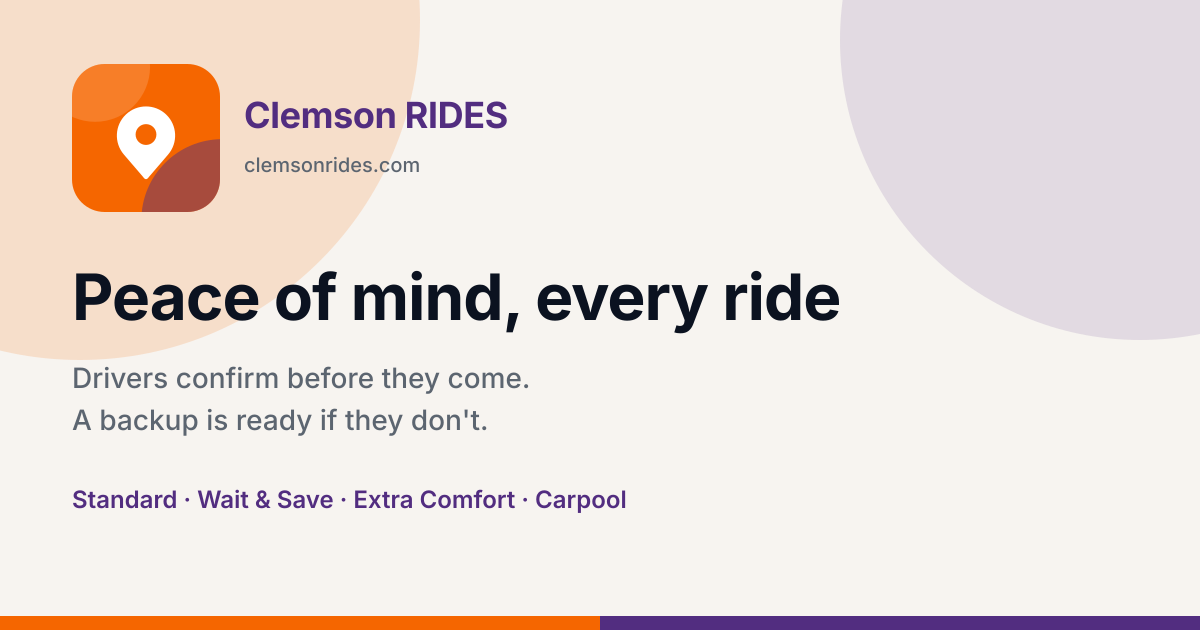
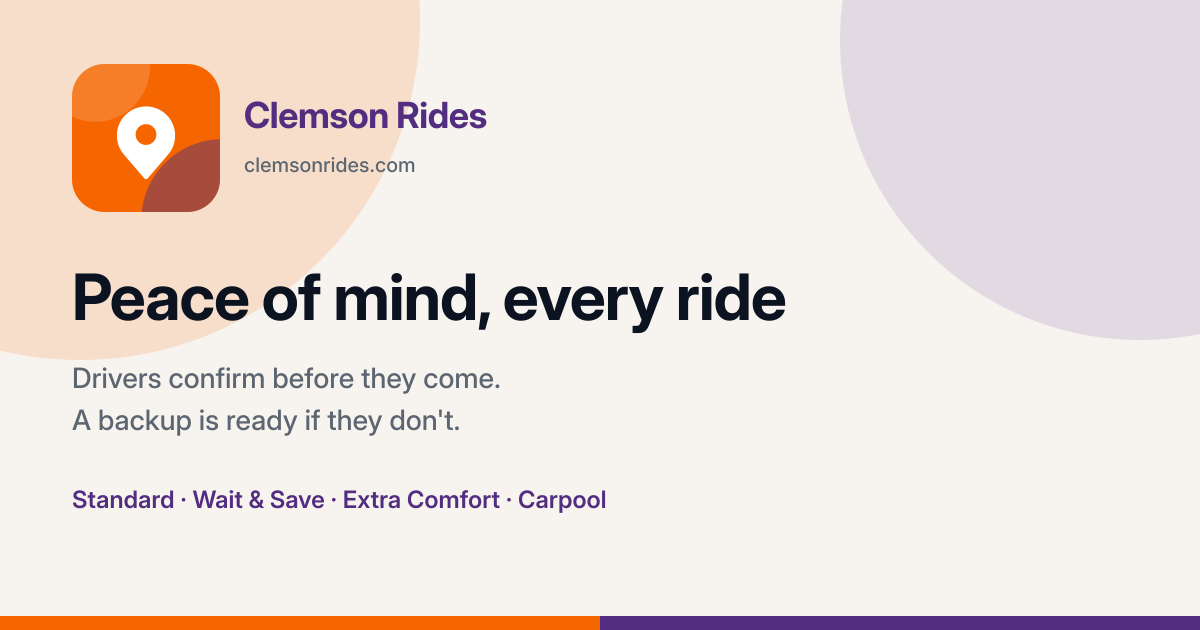
Marketing kit: use the Clemson Rides name, iOS and web only, App Store links; re-render PNGs

diff --git a/marketing-kit/store/iphone-1290x2796.html b/marketing-kit/store/iphone-1290x2796.html
@@ -2,7 +2,7 @@
 <html lang="en">
 <head>
   <meta charset="utf-8" />
-  <title>Clemson RIDES — iPhone screenshot template 1290×2796</title>
+  <title>Clemson Rides — iPhone screenshot template 1290×2796</title>
   <style>
     html, body { margin: 0; width: 1290px; height: 2796px; overflow: hidden; background: #F7F4F0; }
     body {
@@ -65,7 +65,7 @@
   <div class="stage">
     <div class="brand">
       <img src="../logo/mark.svg" alt="" />
-      <p>Clemson RIDES</p>
+      <p>Clemson Rides</p>
     </div>
     <h1>Four ways to ride</h1>
     <p class="lede">The quote on the booking screen is the price before you confirm.</p>

diff --git a/marketing-kit/social/og-image.html b/marketing-kit/social/og-image.html
@@ -2,7 +2,7 @@
 <html lang="en">
 <head>
   <meta charset="utf-8" />
-  <title>Clemson RIDES — Open Graph 1200×630</title>
+  <title>Clemson Rides — Open Graph 1200×630</title>
   <style>
     html, body { margin: 0; width: 1200px; height: 630px; overflow: hidden; background: #F7F4F0; }
     body {
@@ -32,7 +32,7 @@
   <div class="brand">
     <img src="../logo/mark.svg" alt="" />
     <div>
-      <p class="name">Clemson RIDES</p>
+      <p class="name">Clemson Rides</p>
       <p class="url">clemsonrides.com</p>
     </div>
   </div>

diff --git a/marketing-kit/social/linkedin-banner.html b/marketing-kit/social/linkedin-banner.html
@@ -2,7 +2,7 @@
 <html lang="en">
 <head>
   <meta charset="utf-8" />
-  <title>Clemson RIDES — LinkedIn banner 1584×396</title>
+  <title>Clemson Rides — LinkedIn banner 1584×396</title>
   <style>
     html, body { margin: 0; width: 1584px; height: 396px; overflow: hidden; background: #F7F4F0; }
     body {

diff --git a/marketing-kit/store/mac-2880x1800.html b/marketing-kit/store/mac-2880x1800.html
@@ -2,7 +2,7 @@
 <html lang="en">
 <head>
   <meta charset="utf-8" />
-  <title>Clemson RIDES — Mac screenshot template 2880×1800</title>
+  <title>Clemson Rides — Mac screenshot template 2880×1800</title>
   <style>
     html, body { margin: 0; width: 2880px; height: 1800px; overflow: hidden; }
     body {

diff --git a/marketing-kit/social/x-header.html b/marketing-kit/social/x-header.html
@@ -2,7 +2,7 @@
 <html lang="en">
 <head>
   <meta charset="utf-8" />
-  <title>Clemson RIDES — X header 1500×500</title>
+  <title>Clemson Rides — X header 1500×500</title>
   <style>
     html, body { margin: 0; width: 1500px; height: 500px; overflow: hidden; background: #F7F4F0; }
     body {

diff --git a/marketing-kit/PRESS_BLURB.md b/marketing-kit/PRESS_BLURB.md
@@ -2,32 +2,32 @@
 
 Facts from the repo only. No founder quote, no funding figure, no rider count, no rating. Contact rides@clemsonrides.com. The public site is https://clemsonrides.com.
 
-App Store and Play Store listings are not live. Do not describe the apps as available there. iPhone rider and driver builds have public TestFlight betas (`shared/productLinks.js`).
+The iPhone Rider and Driver apps are on the App Store (https://apps.apple.com/us/app/clemson-rides/id6815430021 and https://apps.apple.com/us/app/clemson-rides-driver/id6815445517; `shared/productLinks.js`). Clemson Rides is iOS and web only.
 
 ## Short
 
-Clemson RIDES is a campus and airport ride marketplace for Clemson students. Riders book at clemsonrides.com. The ride types are Standard, Wait & Save, Extra Comfort, and Carpool. Scheduled airport trips use a $75 flat fare to Greenville-Spartanburg (GSP) and a $175 flat fare to Charlotte Douglas (CLT). A confirmed @clemson.edu or @g.clemson.edu email gets 10% off Standard. The App Store and Play Store listings are not live.
+Clemson Rides is a campus and airport ride marketplace for Clemson students. Riders book at clemsonrides.com. The ride types are Standard, Wait & Save, Extra Comfort, and Carpool. Scheduled airport trips use a $75 flat fare to Greenville-Spartanburg (GSP) and a $175 flat fare to Charlotte Douglas (CLT). A confirmed @clemson.edu or @g.clemson.edu email gets 10% off Standard. The App Store and Play Store listings are not live.
 
 ## Standard
 
-Clemson RIDES is a campus and airport ride marketplace for Clemson students, with a website at clemsonrides.com and separate rider and driver apps. Riders choose Standard, Wait & Save, Extra Comfort, or Carpool. The quote on the booking screen is the price before you confirm. Carpool is 50% of the Standard fare per seat when 3 or 4 riders split the trip. Scheduled airport rides go to Greenville-Spartanburg (GSP) at a $75 flat fare or Charlotte Douglas (CLT) at a $175 flat fare. Scheduling does not charge the card. Stripe places a pre-authorization hold for the estimated fare, and the full fare is charged when the trip ends.
+Clemson Rides is a campus and airport ride marketplace for Clemson students, with a website at clemsonrides.com and separate rider and driver apps. Riders choose Standard, Wait & Save, Extra Comfort, or Carpool. The quote on the booking screen is the price before you confirm. Carpool is 50% of the Standard fare per seat when 3 or 4 riders split the trip. Scheduled airport rides go to Greenville-Spartanburg (GSP) at a $75 flat fare or Charlotte Douglas (CLT) at a $175 flat fare. Scheduling does not charge the card. Stripe places a pre-authorization hold for the estimated fare, and the full fare is charged when the trip ends.
 
 A confirmed @clemson.edu or @g.clemson.edu email gets 10% off Standard. Other ride types are not included in that student discount. Tiger Pass is $9.99 a month and takes 10% off Standard, Wait & Save, Extra Comfort, and Carpool. Drivers keep 80% of the fare. A boost on a scheduled ride is all the driver’s. New drivers are not auto-approved. An application review is not a result from a screening company.
 
-The App Store and Play Store listings are not live. iPhone rider and driver apps have public TestFlight betas. Book on the web at https://clemsonrides.com/#/home. Press contact: rides@clemsonrides.com.
+The Rider and Driver iPhone apps are on the App Store. Book on the web at https://clemsonrides.com/#/home. Press contact: rides@clemsonrides.com.
 
 ## Boilerplate facts
 
 | Fact | Source |
 | --- | --- |
-| Product name Clemson RIDES | `package.json`, `index.html` |
+| Product name Clemson Rides | `package.json`, `index.html` |
 | Live site https://clemsonrides.com | `shared/productLinks.js` |
 | Ride types Standard, Wait & Save, Extra Comfort, Carpool | `shared/rideOptions.js` |
 | GSP $75 flat, CLT $175 flat | `src/store.js`, `server/productKnowledge.js` |
 | Student 10% off Standard for a confirmed @clemson.edu or @g.clemson.edu email | `src/lib/fareRates.js`, `shared/copy/rideTypes.js` |
 | Carpool 50% of Standard per seat when 3 or 4 riders split | `shared/copy/rideTypes.js` |
 | Driver keeps 80%; platform fee 20% | `PLATFORM_FEE_BPS` in `src/lib/fareRates.js` |
-| Store listings not live | `shared/productLinks.js`, `docs/store-metadata.md` |
+| Rider and Driver on the App Store; iOS and web only | `shared/productLinks.js` |
 | Support rides@clemsonrides.com | `shared/productLinks.js` |
 
 Do not add the Clemson paw or other university trademarks. Any paw or trademark usage needs licensing review. See `STYLE_GUIDE.md`.

diff --git a/marketing-kit/STYLE_GUIDE.md b/marketing-kit/STYLE_GUIDE.md
@@ -55,7 +55,7 @@ From `packages/rides-native/shared/theme.js`: card radius 20, sheet radius 28, p
 ## Logo
 
 - `logo/mark.svg` is the square mark. The pin path is the rider glyph from `public/brand/rider-icon.svg`. The tile is `#F56600` with a `#522D80` pool in the lower corner.
-- `logo/lockup.svg` is the mark plus the wordmark “Clemson RIDES” in `#522D80`, which is the marketing name color in `src/styles/liquidGlass.css`.
+- `logo/lockup.svg` is the mark plus the wordmark “Clemson Rides” in `#522D80`, which is the marketing name color in `src/styles/liquidGlass.css`.
 - Do not redraw the pin as a paw, a tiger, or a stripe pattern.
 - Do not stretch the mark. Scale it evenly.
 - The driver app icon (`public/brand/driver-icon.svg`) is a separate steering-wheel mark. It is not the wordmark.
@@ -68,7 +68,7 @@ The only ride types in this kit are Standard, Wait & Save, Extra Comfort, and Ca
 
 Do not use the Clemson paw. Do not use other Clemson University trademarks: the athletic tiger, official university logos, university wordmarks, or university seal.
 
-The product name in the repo is “Clemson RIDES”. Using that product name is not a license to use university marks.
+The product name in the repo is “Clemson Rides”. Using that product name is not a license to use university marks.
 
 “Tiger Pass” and “Tiger Heat” are feature names in the product code (`shared/tigerPass.js`, `packages/rides-native/tigerHeat.js`). Those names are not permission to draw a tiger or to use university athletic art.
 
@@ -80,7 +80,7 @@ Do not name any ride product outside Standard, Wait & Save, Extra Comfort, and C
 
 Do not add ratings, download counts, rider counts, revenue, testimonials, or quotes from people. None of those are in this kit because the repo does not publish them as marketing claims.
 
-Do not draw an App Store or Google Play badge. `shared/productLinks.js` sets the public store URLs to null. `docs/store-metadata.md` says the listings are not submitted.
+Use only Apple's official App Store badge, linked to the listings in `shared/productLinks.js`. Clemson Rides is iOS and web only, so do not add any other store badge.
 
 ## Voice
 

diff --git a/marketing-kit/SOCIAL_COPY.md b/marketing-kit/SOCIAL_COPY.md
@@ -2,11 +2,11 @@
 
 Lines below are product facts. Do not add counts, ratings, testimonials, or quotes. Ride types stay Standard, Wait & Save, Extra Comfort, and Carpool. Do not use the Clemson paw or other university trademarks. See `STYLE_GUIDE.md`.
 
-Pair each post with the banner in `social/`. App Store and Play Store listings are not live (`shared/productLinks.js`, `docs/store-metadata.md`). Send people to the website.
+Pair each post with the banner in `social/`. Send people to the website or the App Store listings in `shared/productLinks.js`. iOS and web only.
 
 ## Profile
 
-- Name: Clemson RIDES
+- Name: Clemson Rides
 - Site: https://clemsonrides.com
 - Support: rides@clemsonrides.com (`shared/productLinks.js`)
 
@@ -38,7 +38,7 @@ Peace of mind, every ride. Drivers confirm before they come. A backup is ready i
 
 **Where to book**
 
-Book in the browser at clemsonrides.com. The App Store and Play Store listings are not live. iPhone rider and driver apps have public TestFlight betas.
+Book in the browser at clemsonrides.com. Or get the Rider and Driver iPhone apps on the App Store.
 
 ## Image pair
 
@@ -52,6 +52,6 @@ Book in the browser at clemsonrides.com. The App Store and Play Store listings a
 
 - A star rating, a review, or a quote.
 - A user count, trip count, or city-ranking claim.
-- A store badge, or a line that says the apps are on the App Store or Google Play.
+- Any Android or non-Apple store badge or mention. Clemson Rides is iOS and web only.
 - The Clemson paw, a tiger illustration, or university athletic art.
 - Any ride type other than Standard, Wait & Save, Extra Comfort, and Carpool.

diff --git a/marketing-kit/README.md b/marketing-kit/README.md
@@ -1,6 +1,6 @@
 # Marketing kit
 
-Source files for Clemson RIDES. Nothing in this folder is a live post, a store listing, or a deploy. App Store and Play Store listings are not live.
+Source files for Clemson Rides. Nothing in this folder is a live post, a store listing, or a deploy. Clemson Rides is iOS and web only. The Rider and Driver iPhone apps are on the App Store (`shared/productLinks.js`).
 
 Copy is taken from the product. It does not add ratings, download counts, testimonials, or quotes. Ride types are Standard, Wait & Save, Extra Comfort, and Carpool. Colors are Clemson orange `#F56600` and purple `#522D80`. The mark is the rider pin from `public/brand/rider-icon.svg`. It is not the Clemson paw. Any paw or other university trademark usage needs licensing review (`STYLE_GUIDE.md`).
 

diff --git a/marketing-kit/LANDING_COPY.md b/marketing-kit/LANDING_COPY.md
@@ -60,7 +60,7 @@ The Promos page also rotates a Friday code. This kit does not freeze a code, bec
 
 Primary: Book a ride. Destination: https://clemsonrides.com/#/home (`WEB_BOOK_URL`).
 
-Secondary: Download the app. iPhone installs are the public TestFlight betas in `shared/productLinks.js`. Android opens the website while the Play Store listing is not live. Do not link an App Store or Play Store URL. Those constants are null.
+Secondary: Download the app. iPhone buttons open the Rider and Driver App Store listings in `shared/productLinks.js`. Clemson Rides is iOS and web only.
 
 Driver desk: https://clemsonrides.com/#/driver
 
